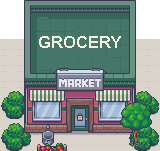
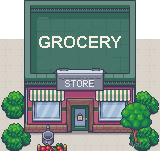
fix stale coins, leftover traffic after reset and the cafeteria counter

Changed region(s): [[0.3438, 0.5033, 0.625, 0.5828]]

diff --git a/ui.js b/ui.js
@@ -8,7 +8,7 @@ var ac = null;
 var snd = true;
 var cardId = null;
 var lastTick = 0;
-var shownRate = '';
+var shown = {};
 var insets = [0, 0];
 
 function $(id) {
@@ -59,12 +59,6 @@ function lower(s) {
   return s.charAt(0).toLowerCase() + s.slice(1);
 }
 
-function projectInc(p) {
-  var sum = 0;
-  for (var i = p.first; i < Math.min(S.k, p.end); i++) sum += STEPS[i].inc;
-  return sum * (done(p.id) ? 2 : 1);
-}
-
 function fitInsets() {
   var top = $('top').offsetHeight + 6;
   var bot = $('bottom').offsetHeight + 6;
@@ -74,39 +68,40 @@ function fitInsets() {
   }
 }
 
+// writes to the page only when a value changed
+function put(key, el, prop, value) {
+  if (shown[key] === value) return false;
+  shown[key] = value;
+  el[prop] = value;
+  return true;
+}
+
 function updateNext() {
   var n = upNext();
   var b = $('next');
-  if (!n) {
-    b.hidden = true;
-    fitInsets();
-    return;
+  var moved = put('nextHidden', b, 'hidden', !n);
+  if (n) {
+    var ok = canBuy();
+    var html = 'Next: ' + PROJ[n.p].name + ', ' + lower(n.name);
+    if (!ok) html += '<small>' + Math.ceil(waitFor()) + ' s to go</small>';
+    moved = put('nextHtml', $('next-txt'), 'innerHTML', html) || moved;
+    put('nextCost', $('next-cost'), 'textContent', money(n.cost));
+    if (shown.wait !== !ok) {
+      shown.wait = !ok;
+      b.classList.toggle('wait', !ok);
+    }
+    put('nextFill', $('next-fill').style, 'width', (ok ? 0 : Math.min(100, S.cash / n.cost * 100)) + '%');
+    if (cardId) put('goOff', $('card-go'), 'disabled', !ok);
   }
-  b.hidden = false;
-  var ok = canBuy();
-  var html = 'Next: ' + PROJ[n.p].name + ', ' + lower(n.name);
-  if (!ok) html += '<small>' + Math.ceil(waitFor()) + ' s to go</small>';
-  var t = $('next-txt');
-  if (t.getAttribute('data-h') !== html) {
-    t.innerHTML = html;
-    t.setAttribute('data-h', html);
-  }
-  $('next-cost').textContent = money(n.cost);
-  b.classList.toggle('wait', !ok);
-  $('next-fill').style.width = (ok ? 0 : Math.min(100, S.cash / n.cost * 100)) + '%';
-  fitInsets();
+  if (moved) fitInsets();
 }
 
 function updateHud() {
-  $('cash-n').textContent = free ? '∞' : money(S.cash);
-  var r = '+' + money(rate()) + '/s';
-  if (r !== shownRate) {
-    $('rate').textContent = r;
-    shownRate = r;
-  }
+  put('cash', $('cash-n'), 'textContent', free ? '∞' : money(S.cash));
+  put('rate', $('rate'), 'textContent', '+' + money(rate()) + '/s');
   var sw = $('swap');
-  sw.hidden = got('class1') === 0;
-  sw.textContent = View.view() === 'town' ? 'School' : 'Town';
+  put('swapHidden', sw, 'hidden', got('class1') === 0);
+  put('swapText', sw, 'textContent', View.view() === 'town' ? 'School' : 'Town');
 }
 
 // the card for a project, a locked block or the whole school
@@ -236,7 +231,10 @@ function wire() {
   $('swap').addEventListener('click', function () {
     closeCard();
     if (View.view() === 'town') View.go('school', View.roomY(schoolRoom()));
-    else View.go('town', View.blockY('school'));
+    else {
+      var b = View.blockAt('school');
+      View.go('town', b.y, b.x);
+    }
   });
   $('gear').addEventListener('click', function () {
     setSound();
@@ -296,6 +294,7 @@ function wire() {
   $('away-ok').addEventListener('click', function () { $('away').hidden = true; });
   $('end-ok').addEventListener('click', function () { $('end').hidden = true; });
   document.addEventListener('pointerup', wake);
+  window.addEventListener('resize', fitInsets);
   var hiddenAt = 0;
   document.addEventListener('visibilitychange', function () {
     if (document.hidden) {
@@ -312,12 +311,12 @@ function wire() {
 }
 
 function loop(t) {
+  requestAnimationFrame(loop);
   tick(Math.min(1, (t - lastTick) / 1000));
   lastTick = t;
   View.draw(t);
   updateHud();
   updateNext();
-  requestAnimationFrame(loop);
 }
 
 function start() {
@@ -336,6 +335,14 @@ function start() {
     lastTick = performance.now();
     requestAnimationFrame(loop);
     setInterval(save, 5000);
+    if (location.protocol !== 'file:') {
+      // file:// blocks the manifest fetch and logs an error
+      var man = document.createElement('link');
+      man.rel = 'manifest';
+      man.href = 'manifest.webmanifest';
+      document.head.appendChild(man);
+      if ('serviceWorker' in navigator) navigator.serviceWorker.register('sw.js');
+    }
   }, 50);
 }
 
